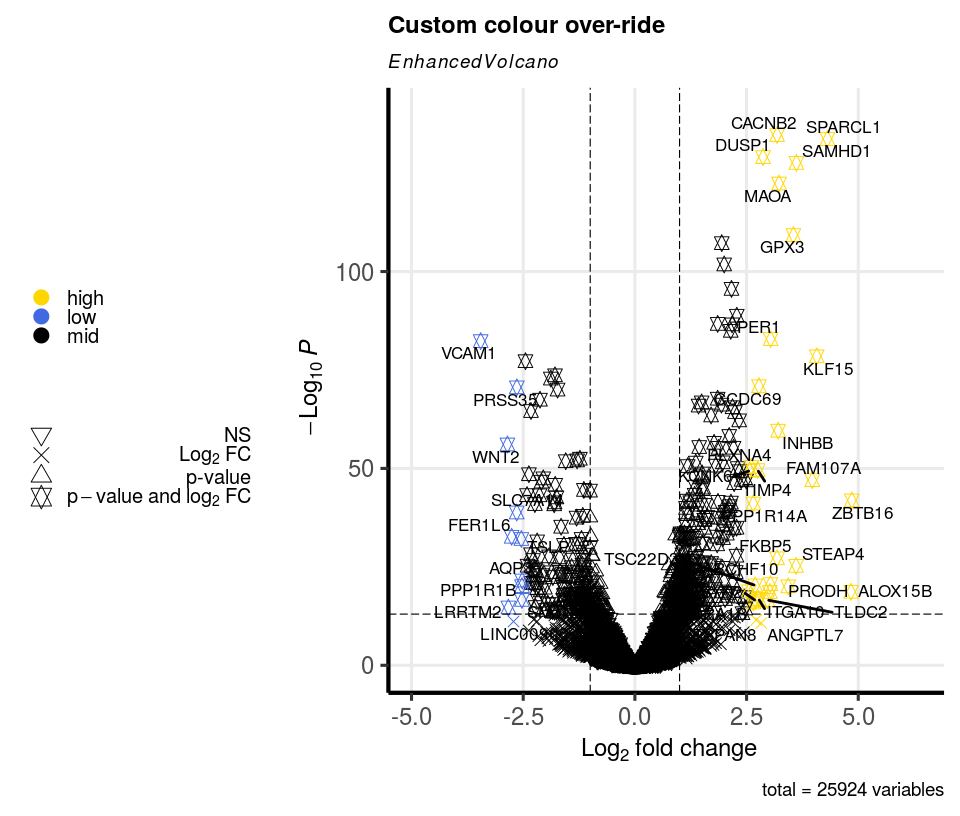
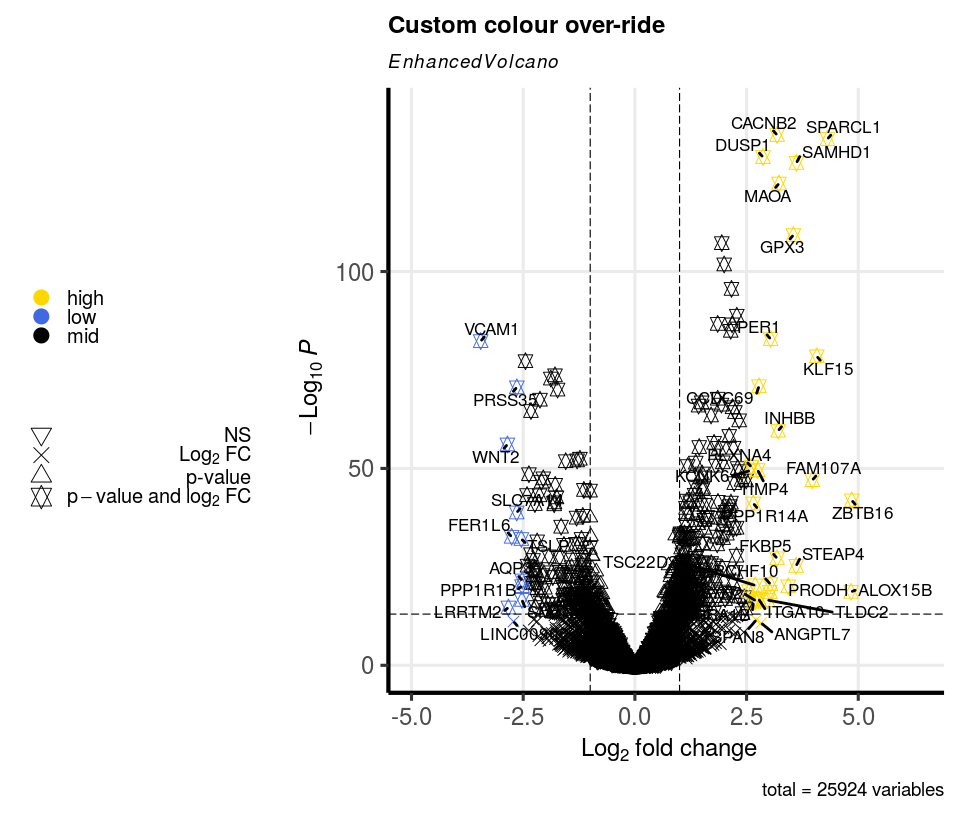
add min.segment.length

diff --git a/README.md b/README.md
@@ -2,7 +2,7 @@ EnhancedVolcano: publication-ready volcano plots with enhanced colouring
 and labeling
 ================
 Kevin Blighe, Sharmila Rana, Myles Lewis
-2021-05-15
+2021-07-23
 
 # Introduction
 
@@ -206,22 +206,19 @@ Reference: shape](http://sape.inf.usi.ch/quick-reference/ggplot2/shape)
 
 ![Adjust shape of plotted points.](README_files/figure-gfm/ex4b-1.png)
 
-## Adjust p-value cut-off
+## Adjust cut-off lines and add extra threshold lines
 
 The lines that are drawn to indicate cut-off points are also modifiable.
 The parameter ‘cutoffLineType’ accepts the following values: “blank”,
 “solid”, “dashed”, “dotted”, “dotdash”, “longdash”, and “twodash”. The
 colour and thickness of these can also be modified with ‘cutoffLineCol’
-and ‘cutoffLineWidth’, respectively. To disable the lines, set either
+and ‘cutoffLineWidth’. To disable the lines, set either
 cutoffLineType=“blank” or cutoffLineWidth=0.
 
-Also, by using pCutoffCol=‘padj’, we instruct *EnhancedVolcano* to
-generate a traditonal volcano using nominal / un-adjusted p-values (or
-whatever is passed as ‘y’), but using adjusted p-values as the cut-off.
-
 Extra lines can also be added via ‘hline’ and ‘vline’ to display other
-custom cut-offs. To make these more visible, we will also remove the
-default gridlines (gridlines.major and gridlines.minor).
+cut-offs.
+
+To make these more visible, we will also remove the default gridlines.
 
 ``` r
   EnhancedVolcano(res,
@@ -230,24 +227,21 @@ default gridlines (gridlines.major and gridlines.minor).
     y = 'pvalue',
     xlim = c(-6, 6),
     title = 'N061011 versus N61311',
-    subtitle = paste0('p-value cutoff (red line) drawn ',
-      'at equivalent of adjusted p=0.0001'),
-    pCutoff = 0.0001,
-    pCutoffCol = 'padj',
+    pCutoff = 10e-12,
     FCcutoff = 1.5,
     pointSize = 3.0,
     labSize = 6.0,
     colAlpha = 1,
-    cutoffLineType = 'solid',
-    cutoffLineCol = 'red2',
-    cutoffLineWidth = 2.5,
+    cutoffLineType = 'blank',
+    cutoffLineCol = 'black',
+    cutoffLineWidth = 0.8,
     hline = c(10e-20,
       10e-20 * 10e-30,
       10e-20 * 10e-60,
       10e-20 * 10e-90),
-    hlineCol = c('black', 'black', 'black', 'black'),
-    hlineType = c('longdash', 'longdash', 'dotdash', 'dotdash'),
-    hlineWidth = c(0.4, 0.4, 0.8, 0.8),
+    hlineCol = c('pink', 'hotpink', 'purple', 'black'),
+    hlineType = c('solid', 'longdash', 'dotdash', 'dotted'),
+    hlineWidth = c(1.0, 1.5, 2.0, 2.5),
     gridlines.major = FALSE,
     gridlines.minor = FALSE)
 ```
@@ -279,6 +273,9 @@ legend text, label size, and icon size can also be modified.
     legendLabSize = 16,
     legendIconSize = 5.0)
 ```
+
+![Adjust legend position, size, and
+text.](README_files/figure-gfm/ex6-1.png)
 
 Note: to make the legend completely invisible, specify:
 
@@ -349,8 +346,9 @@ labelled.
 
 ## Draw labels in boxes
 
-To improve label clarity, we can draw simple boxes around the plots
-labels. This works much better when drawConnectors is also TRUE.
+To improve label clarity, we can draw simple boxes around the plot’s
+labels via *boxedLabels*. This works much better when drawConnectors is
+also TRUE.
 
 ``` r
   EnhancedVolcano(res,
@@ -759,7 +757,7 @@ and suggestions from:
   - Emir Turkes
   - Benjamin Ostendorf
   - Cristian (github.com/ccruizm)
-  - Andrea Grioni
+  - Quan Le (Yale University)
 
 # Session info
 
@@ -796,76 +794,7 @@ sessionInfo()
     ## [11] Biobase_2.48.0              GenomicRanges_1.40.0       
     ## [13] GenomeInfoDb_1.24.2         IRanges_2.22.2             
     ## [15] S4Vectors_0.26.1            BiocGenerics_0.34.0        
-    ## [17] EnhancedVolcano_1.9.13      ggrepel_0.9.1              
-    ## [19] ggplot2_3.3.3               knitr_1.31                 
-    ## 
-    ## loaded via a namespace (and not attached):
-    ##  [1] bitops_1.0-6           bit64_4.0.5            ash_1.0-15            
-    ##  [4] RColorBrewer_1.1-2     tools_4.0.3            R6_2.5.0              
-    ##  [7] KernSmooth_2.23-18     vipor_0.4.5            DBI_1.1.1             
-    ## [10] colorspace_2.0-0       withr_2.4.1            tidyselect_1.1.0      
-    ## [13] ggrastr_0.2.3          ggalt_0.4.0            bit_4.0.4             
-    ## [16] compiler_4.0.3         extrafontdb_1.0        isoband_0.2.3         
-    ## [19] labeling_0.4.2         scales_1.1.1           proj4_1.0-10.1        
-    ## [22] genefilter_1.70.0      stringr_1.4.0          digest_0.6.27         
-    ## [25] rmarkdown_2.6          XVector_0.28.0         pkgconfig_2.0.3       
-    ## [28] htmltools_0.5.1.1      extrafont_0.17         fastmap_1.1.0         
-    ## [31] highr_0.8              maps_3.3.0             rlang_0.4.10          
-    ## [34] RSQLite_2.2.3          generics_0.1.0         farver_2.0.3          
-    ## [37] BiocParallel_1.22.0    dplyr_1.0.3            RCurl_1.98-1.2        
-    ## [40] GenomeInfoDbData_1.2.3 Matrix_1.3-2           Rcpp_1.0.6            
-    ## [43] ggbeeswarm_0.6.0       munsell_0.5.0          lifecycle_0.2.0       
-    ## [46] stringi_1.5.3          yaml_2.2.1             MASS_7.3-53           
-    ## [49] zlibbioc_1.34.0        blob_1.2.1             crayon_1.3.4          
-    ## [52] lattice_0.20-41        splines_4.0.3          annotate_1.66.0       
-    ## [55] locfit_1.5-9.4         pillar_1.4.7           geneplotter_1.66.0    
-    ## [58] XML_3.99-0.5           glue_1.4.2             evaluate_0.14         
-    ## [61] vctrs_0.3.6            Rttf2pt1_1.3.8         gtable_0.3.0          
-    ## [64] purrr_0.3.4            assertthat_0.2.1       cachem_1.0.1          
-    ## [67] xfun_0.20              xtable_1.8-4           survival_3.2-7        
-    ## [70] tibble_3.0.1           beeswarm_0.2.3         memoise_2.0.0         
-    ## [73] ellipsis_0.3.1
-
-# References
-
-Blighe, Rana, and Lewis (2018)
-
-# Session info
-
-``` r
-sessionInfo()
-```
-
-    ## R version 4.0.3 (2020-10-10)
-    ## Platform: x86_64-pc-linux-gnu (64-bit)
-    ## Running under: Ubuntu 16.04.7 LTS
-    ## 
-    ## Matrix products: default
-    ## BLAS:   /usr/lib/atlas-base/atlas/libblas.so.3.0
-    ## LAPACK: /usr/lib/atlas-base/atlas/liblapack.so.3.0
-    ## 
-    ## locale:
-    ##  [1] LC_CTYPE=pt_BR.UTF-8       LC_NUMERIC=C              
-    ##  [3] LC_TIME=en_GB.UTF-8        LC_COLLATE=pt_BR.UTF-8    
-    ##  [5] LC_MONETARY=en_GB.UTF-8    LC_MESSAGES=pt_BR.UTF-8   
-    ##  [7] LC_PAPER=en_GB.UTF-8       LC_NAME=C                 
-    ##  [9] LC_ADDRESS=C               LC_TELEPHONE=C            
-    ## [11] LC_MEASUREMENT=en_GB.UTF-8 LC_IDENTIFICATION=C       
-    ## 
-    ## attached base packages:
-    ##  [1] grid      parallel  stats4    stats     graphics  grDevices utils    
-    ##  [8] datasets  methods   base     
-    ## 
-    ## other attached packages:
-    ##  [1] pasilla_1.16.0              gridExtra_2.3              
-    ##  [3] DESeq2_1.28.1               org.Hs.eg.db_3.11.4        
-    ##  [5] AnnotationDbi_1.53.0        magrittr_2.0.1             
-    ##  [7] airway_1.8.0                SummarizedExperiment_1.18.2
-    ##  [9] DelayedArray_0.14.1         matrixStats_0.57.0         
-    ## [11] Biobase_2.48.0              GenomicRanges_1.40.0       
-    ## [13] GenomeInfoDb_1.24.2         IRanges_2.22.2             
-    ## [15] S4Vectors_0.26.1            BiocGenerics_0.34.0        
-    ## [17] EnhancedVolcano_1.9.13      ggrepel_0.9.1              
+    ## [17] EnhancedVolcano_1.11.3      ggrepel_0.9.1              
     ## [19] ggplot2_3.3.3               knitr_1.31                 
     ## 
     ## loaded via a namespace (and not attached):
